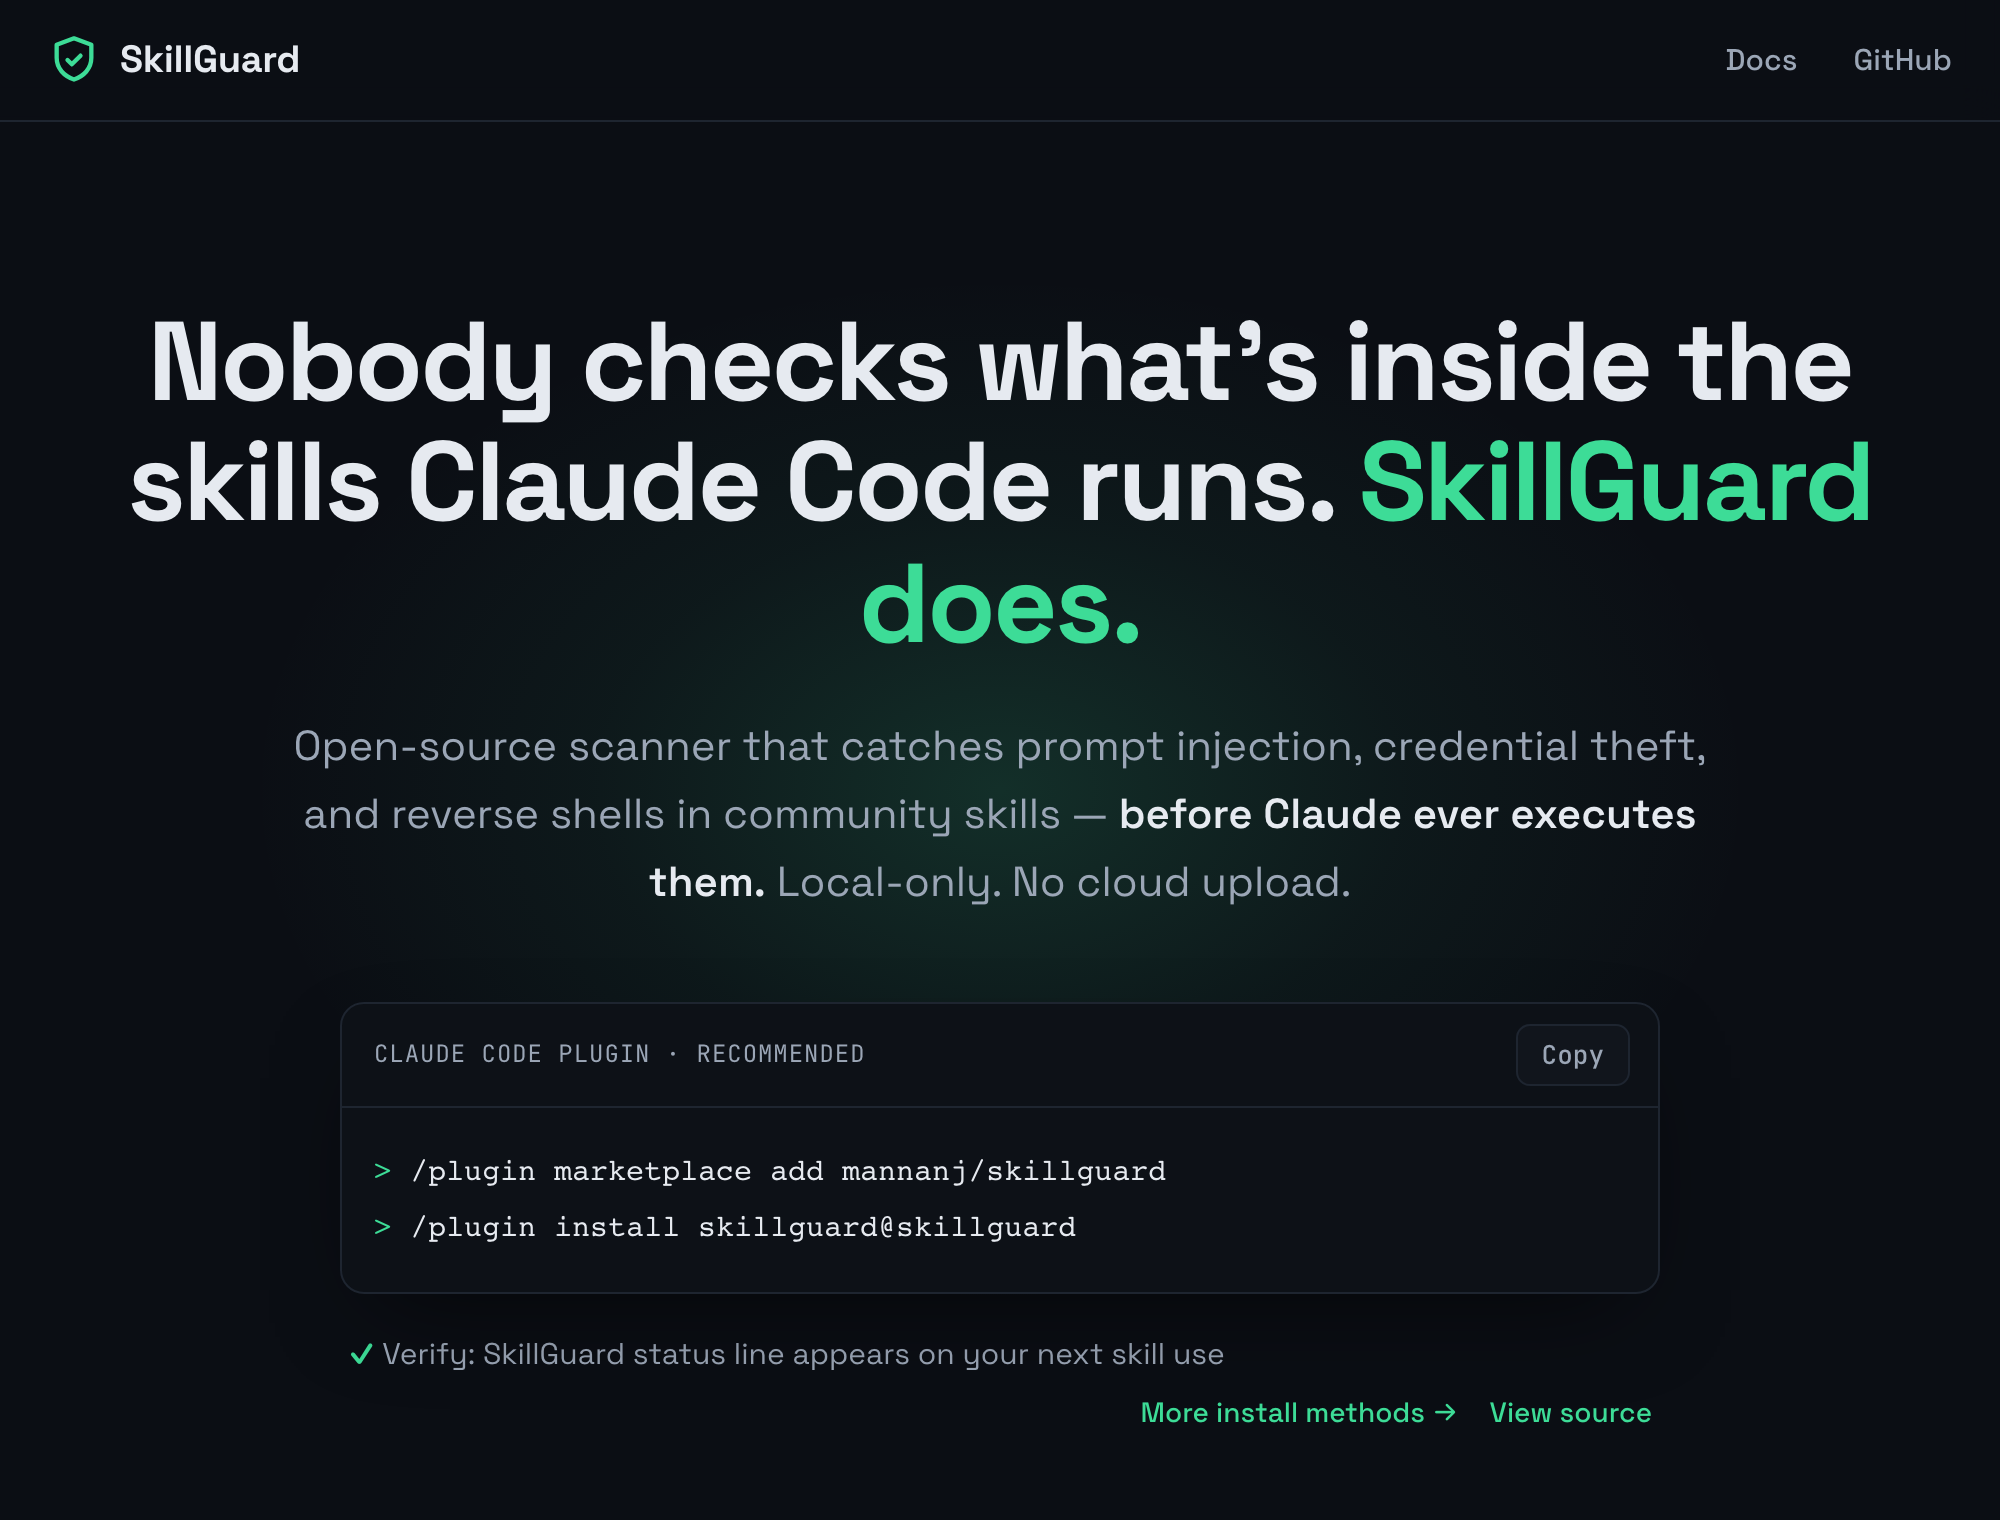
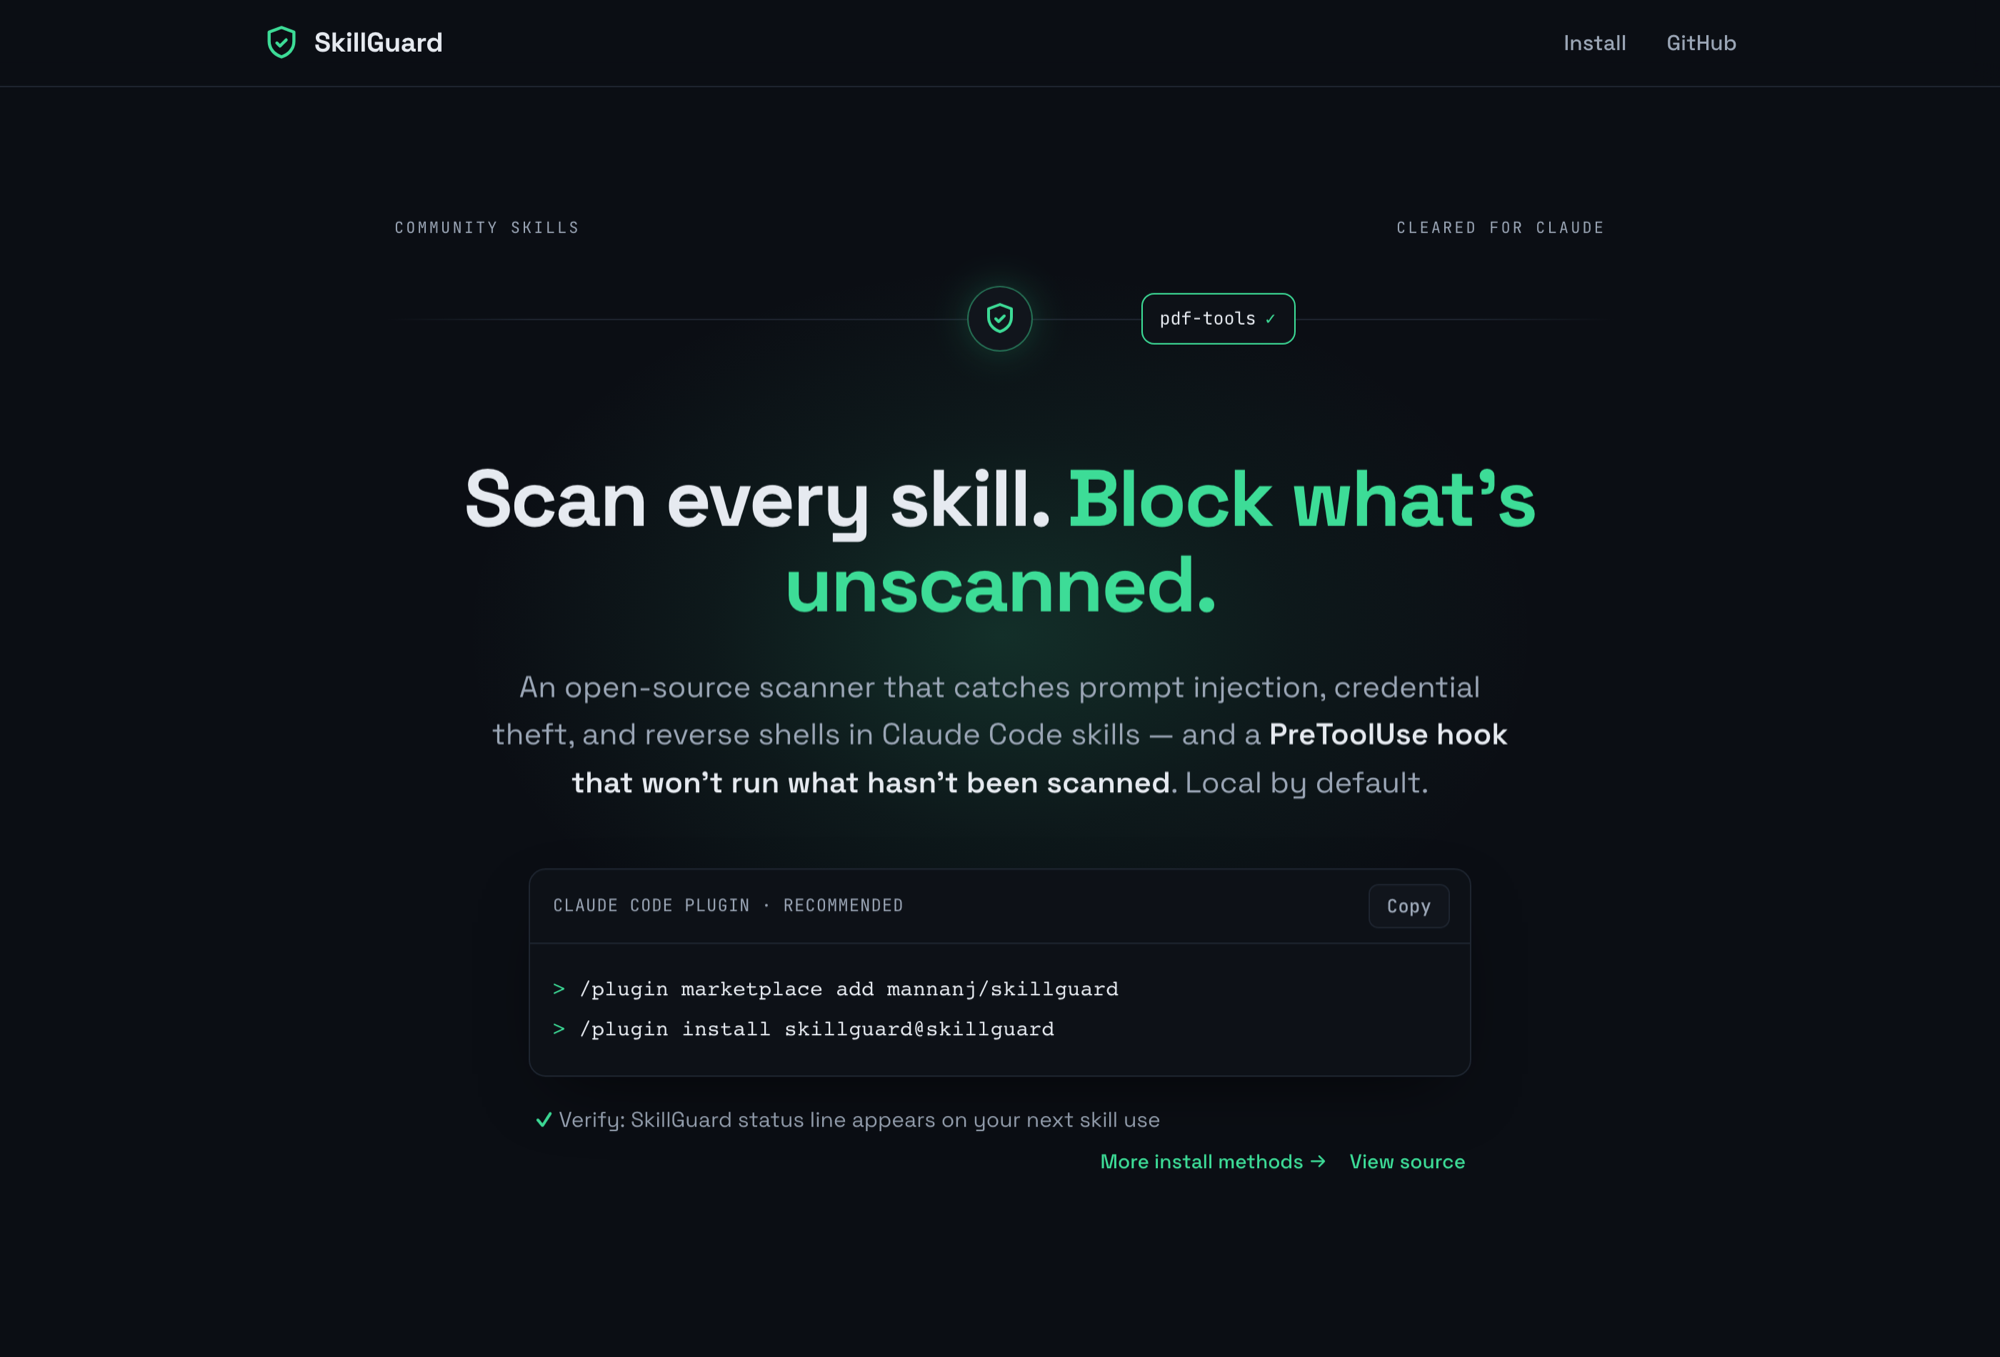
Task 242: Disable Mannan & Mannan MCP cards; refresh SkillGuard shot
- [x] Add reversible `hidden` flag to GardenProductData
- [x] Hide the "Mannan" card (redundant — links to this same site)
- [x] Hide the "Mannan MCP" card
- [x] Filter hidden products out of the Tools grid (still present in MCP data)
- [x] Re-capture SkillGuard landing ("Scan every skill. Block what's unscanned.")
- [x] Update garden-carousel e2e: count 7->6, drop Mannan/MCP, add claude-cues, fix order
- Location: `src/lib/garden-products.ts`, `src/components/garden/garden-explorer.tsx`, `public/skillguard.png`, `e2e/garden-carousel.spec.ts`

[Task-242]

diff --git a/e2e/garden-carousel.spec.ts b/e2e/garden-carousel.spec.ts
@@ -29,12 +29,12 @@ test.describe('Garden carousel', () => {
     await expect(page.getByTestId('garden-tab-products')).toHaveAttribute('aria-selected', 'false');
   });
 
-  test('selecting Products swivels to the seven product cards', async ({ page }) => {
+  test('selecting Products swivels to the six product cards', async ({ page }) => {
     await gotoGarden(page);
     await page.getByTestId('garden-tab-products').click();
     await expect(page.getByTestId('garden-active-panel')).toHaveAttribute('data-panel', 'products');
     await expect(page.getByTestId('garden-tab-products')).toHaveAttribute('aria-selected', 'true');
-    await expect(page.locator('[data-panel="products"] a')).toHaveCount(7);
+    await expect(page.locator('[data-panel="products"] a')).toHaveCount(6);
   });
 
   test('product cards link to the correct destinations', async ({ page }) => {
@@ -42,19 +42,10 @@ test.describe('Garden carousel', () => {
     await page.getByTestId('garden-tab-products').click();
     const cards = page.locator('[data-panel="products"] a');
 
-    const mannan = cards.filter({ has: page.getByText('Mannan', { exact: true }) });
-    await expect(mannan).toHaveAttribute('href', '/');
-    await expect(mannan).not.toHaveAttribute('target', /.+/);
-
     const sunSignal = cards.filter({ hasText: 'Sun Signal' });
     await expect(sunSignal).toHaveAttribute('href', 'https://sunsignal.app');
     await expect(sunSignal).toHaveAttribute('target', '_blank');
     await expect(sunSignal).toHaveAttribute('rel', /noopener/);
-
-    const mcp = cards.filter({ hasText: 'Mannan MCP' });
-    await expect(mcp).toHaveAttribute('href', 'https://mcp.mannanteam.workers.dev');
-    await expect(mcp).toHaveAttribute('target', '_blank');
-    await expect(mcp).toHaveAttribute('rel', /noopener/);
 
     const readAlong = cards.filter({ hasText: 'Read Along' });
     await expect(readAlong).toHaveAttribute('href', 'https://tryreadalong.com');
@@ -70,6 +61,11 @@ test.describe('Garden carousel', () => {
     await expect(skillguard).toHaveAttribute('href', 'https://skillguard.sh');
     await expect(skillguard).toHaveAttribute('target', '_blank');
     await expect(skillguard).toHaveAttribute('rel', /noopener/);
+
+    const claudeCues = cards.filter({ hasText: 'claude-cues' });
+    await expect(claudeCues).toHaveAttribute('href', 'https://claude-cues.pages.dev');
+    await expect(claudeCues).toHaveAttribute('target', '_blank');
+    await expect(claudeCues).toHaveAttribute('rel', /noopener/);
 
     const mealFairy = cards.filter({ hasText: 'Meal Fairy' });
     await expect(mealFairy).toHaveAttribute('href', 'https://meal-fairy-ce3bf.web.app');
@@ -92,12 +88,11 @@ test.describe('Garden carousel', () => {
       .locator('a')
       .evaluateAll((els) => els.map((el) => el.querySelector('span')?.textContent?.trim() ?? ''));
     expect(orderedTitles).toEqual([
-      'Mannan',
       'Sun Signal',
       'Read Along',
       'SkillGuard',
+      'claude-cues',
       'Summon It',
-      'Mannan MCP',
       'Meal Fairy (retired)',
     ]);
   });

diff --git a/src/components/garden/garden-explorer.tsx b/src/components/garden/garden-explorer.tsx
@@ -150,10 +150,12 @@ const PRODUCT_THUMBS: Record<string, ReactNode> = {
   "Meal Fairy": <MealFairyThumb />,
 };
 
-const PRODUCTS: GardenProduct[] = GARDEN_PRODUCTS.map((p) => ({
-  ...p,
-  thumb: PRODUCT_THUMBS[p.title],
-}));
+const PRODUCTS: GardenProduct[] = GARDEN_PRODUCTS.filter((p) => !p.hidden).map(
+  (p) => ({
+    ...p,
+    thumb: PRODUCT_THUMBS[p.title],
+  }),
+);
 
 function ProductCard({ product }: { product: GardenProduct }) {
   const className =

diff --git a/src/lib/garden-products.ts b/src/lib/garden-products.ts
@@ -5,6 +5,7 @@ export interface GardenProductData {
   external: boolean;
   year: number;
   retired?: boolean;
+  hidden?: boolean;
 }
 
 export const GARDEN_PRODUCTS: GardenProductData[] = [
@@ -14,6 +15,7 @@ export const GARDEN_PRODUCTS: GardenProductData[] = [
     href: "/",
     external: false,
     year: 2026,
+    hidden: true,
   },
   {
     title: "Sun Signal",
@@ -56,6 +58,7 @@ export const GARDEN_PRODUCTS: GardenProductData[] = [
     href: "https://mcp.mannanteam.workers.dev",
     external: true,
     year: 2026,
+    hidden: true,
   },
   {
     title: "Meal Fairy",

diff --git a/tasks/task-242.md b/tasks/task-242.md
@@ -1,0 +1,8 @@
+### Task 242: Disable Mannan & Mannan MCP tool cards; refresh SkillGuard shot
+- [x] Add reversible `hidden` flag to `GardenProductData`
+- [x] Hide the "Mannan" card (redundant — links to this same site)
+- [x] Hide the "Mannan MCP" card
+- [x] Filter hidden products out of the Tools grid (still present in MCP data)
+- [x] Re-capture SkillGuard landing ("Scan every skill. Block what's unscanned.")
+- [x] Update garden-carousel e2e: count 7→6, drop Mannan/MCP, add claude-cues, fix order
+- Location: `src/lib/garden-products.ts`, `src/components/garden/garden-explorer.tsx`, `public/skillguard.png`, `e2e/garden-carousel.spec.ts`